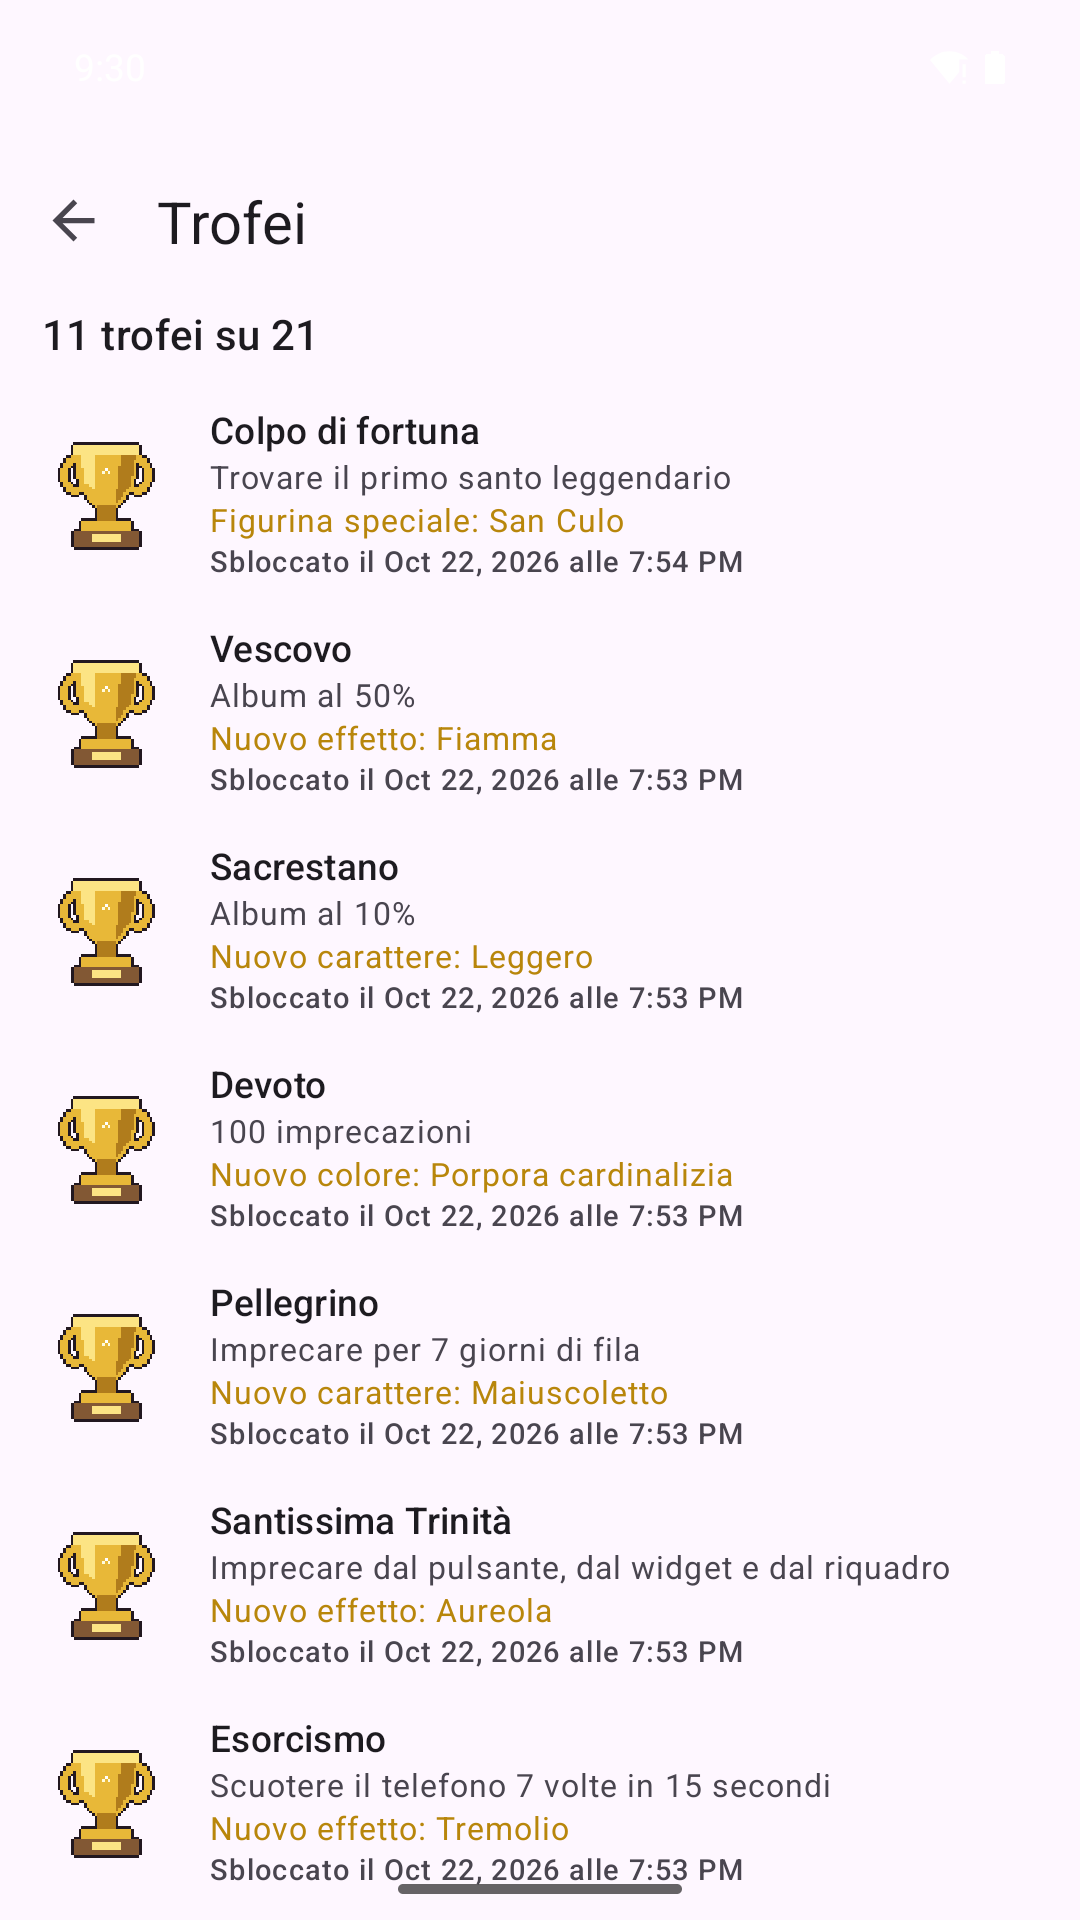
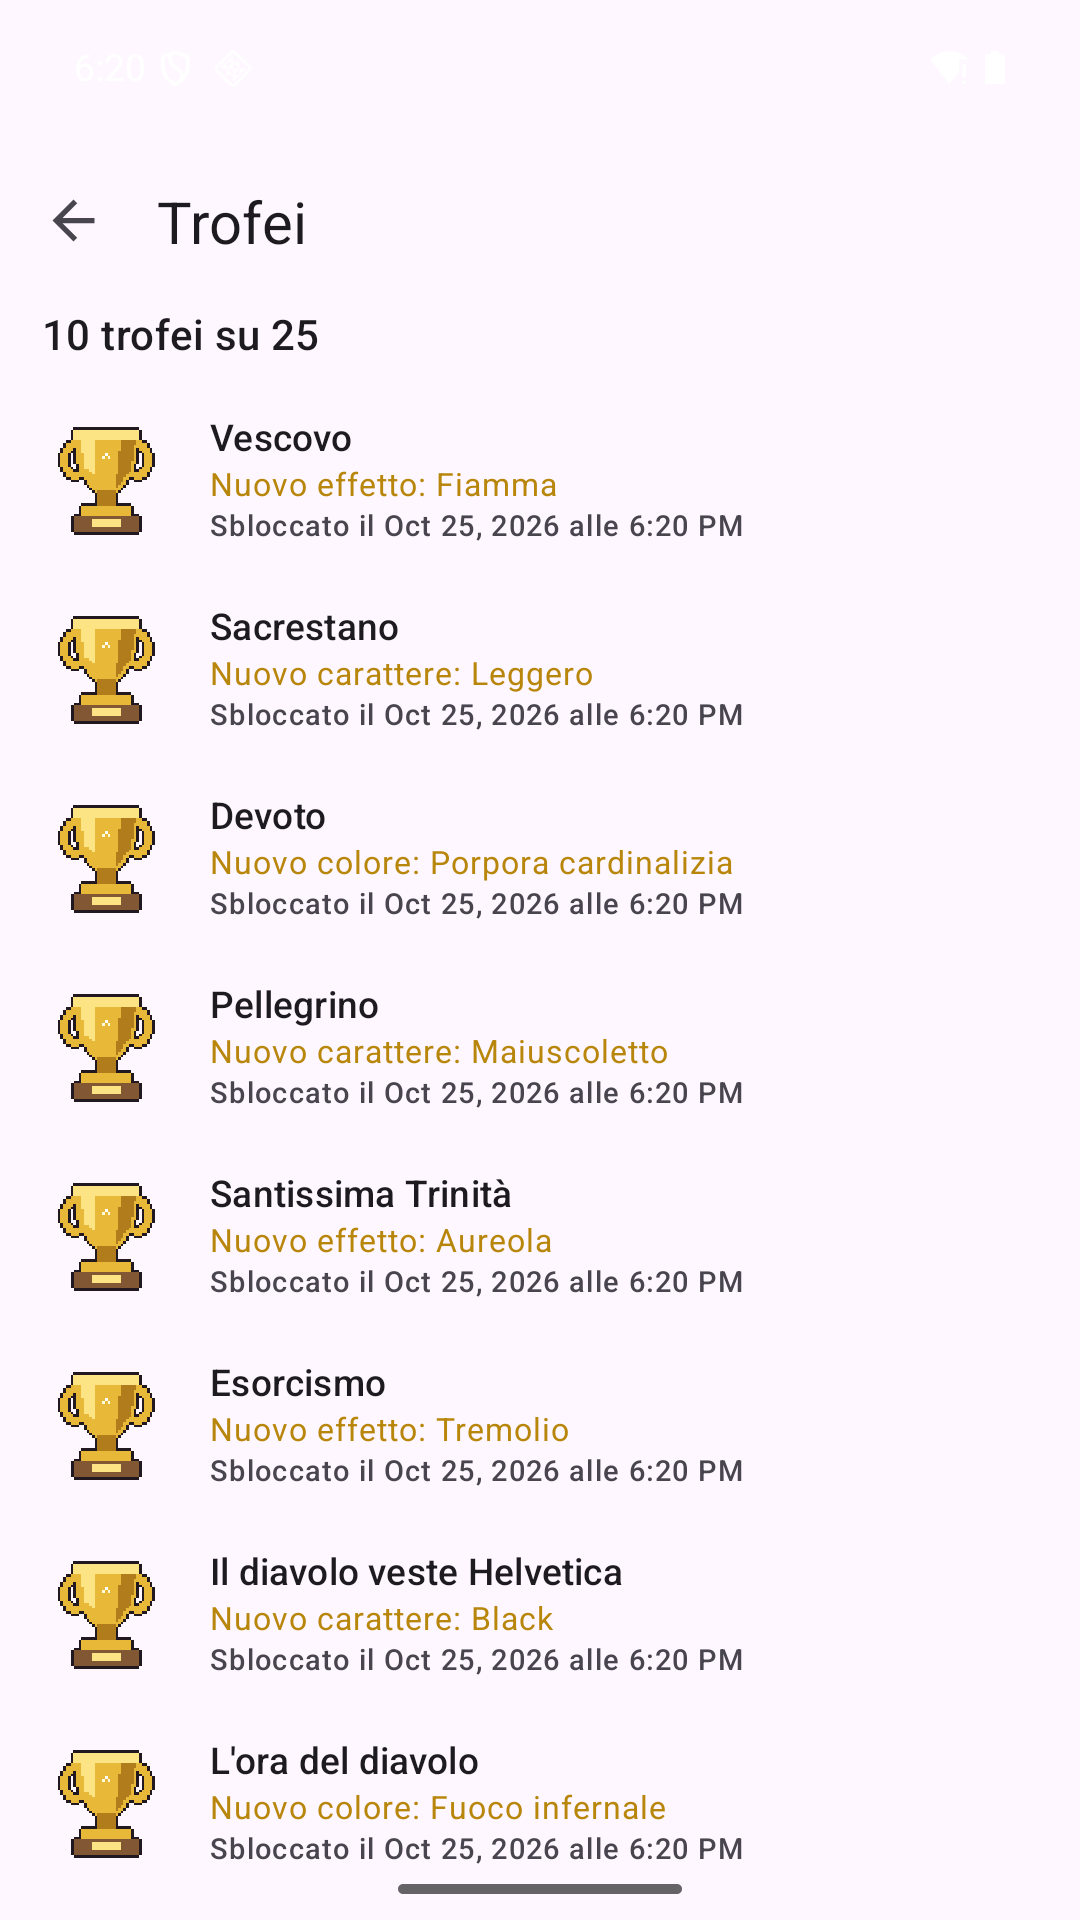
Trophies: conditions only in the detail; easier Esorcismo
- The trophy list shows name, reward and date; a tap on an unlocked trophy
  opens a dialog with its condition. The Play Store screenshot of the list no
  longer spoils how to win them (store/screenshot-6.png retaken).
- Esorcismo: 5 shakes in 15 s instead of 7. Shakes are counted at most one
  per cooldown and a short peak can be missed between sensor readings.
- Shake cooldown 1.5 s -> 1.0 s: a shake in the last moment of a phrase no
  longer swallows the next one. invokeSaint still blocks double invocations.

diff --git a/mannaggia-android/app/src/main/java/com/mannaggia/app/TrofeiActivity.kt b/mannaggia-android/app/src/main/java/com/mannaggia/app/TrofeiActivity.kt
@@ -9,6 +9,7 @@ import android.view.View
 import android.view.ViewGroup
 import android.widget.ImageView
 import android.widget.TextView
+import androidx.appcompat.app.AlertDialog
 import androidx.appcompat.app.AppCompatActivity
 import androidx.core.view.ViewCompat
 import androidx.core.view.WindowInsetsCompat
@@ -20,8 +21,9 @@ import kotlinx.coroutines.launch
 import java.util.Date
 
 /**
- * Trophies: unlocked ones show cup, name, condition, reward and date; locked
- * ones are a grey cup and "???", with no hint.
+ * Trophies: unlocked ones show cup, name, reward and date, and a tap opens the detail with
+ * the condition (not in the list, so a screenshot of it doesn't spoil how to win them);
+ * locked ones are a grey cup and "???", with no hint.
  */
 class TrofeiActivity : AppCompatActivity() {
 
@@ -82,7 +84,7 @@ class TrofeiActivity : AppCompatActivity() {
                 holder.cup.colorFilter = null
                 holder.cup.alpha = 1f
                 holder.name.text = t.nome
-                holder.condition.text = t.condizione
+                holder.condition.visibility = View.GONE
                 holder.reward.text = t.ricompensa.descrizione
                 holder.reward.visibility = View.VISIBLE
                 val d = Date(at)
@@ -92,14 +94,24 @@ class TrofeiActivity : AppCompatActivity() {
                     DateFormat.getTimeFormat(this@TrofeiActivity).format(d)
                 )
                 holder.date.visibility = View.VISIBLE
+                holder.itemView.setOnClickListener {
+                    AlertDialog.Builder(this@TrofeiActivity)
+                        .setTitle(t.nome)
+                        .setMessage(listOf(t.condizione, t.ricompensa.descrizione, holder.date.text).joinToString("\n\n"))
+                        .setPositiveButton(android.R.string.ok, null)
+                        .show()
+                }
             } else {
                 // Locked: grey cup, no name, no hint.
                 holder.cup.colorFilter = ColorMatrixColorFilter(ColorMatrix().apply { setSaturation(0f) })
                 holder.cup.alpha = 0.45f
                 holder.name.text = getString(R.string.trophy_locked)
                 holder.condition.text = getString(R.string.trophy_locked_hint)
+                holder.condition.visibility = View.VISIBLE
                 holder.reward.visibility = View.GONE
                 holder.date.visibility = View.GONE
+                holder.itemView.setOnClickListener(null)
+                holder.itemView.isClickable = false
             }
         }
     }

diff --git a/mannaggia-android/app/src/main/java/com/mannaggia/app/Trofei.kt b/mannaggia-android/app/src/main/java/com/mannaggia/app/Trofei.kt
@@ -49,7 +49,7 @@ object Trofei {
             colore("inferno", "Fuoco infernale")),
         Trofeo("helvetica", "Il diavolo veste Helvetica", "Cambiare carattere 666 volte",
             carattere("sans-serif-black", "Black")),
-        Trofeo("esorcismo", "Esorcismo", "Scuotere il telefono 7 volte in 15 secondi",
+        Trofeo("esorcismo", "Esorcismo", "Scuotere il telefono 5 volte in 15 secondi",
             effetto("tremolio", "Tremolio")),
         Trofeo("trinita", "Santissima Trinità", "Imprecare dal pulsante, dal widget e dal riquadro",
             effetto("aureola", "Aureola")),
@@ -93,7 +93,7 @@ object Trofei {
     /** "S3" number of a special card (1-based), or null. */
     fun specialNumber(saint: String): Int? = SPECIALI.indexOf(saint).takeIf { it >= 0 }?.plus(1)
 
-    private const val ESORCISMO_SHAKES = 7
+    private const val ESORCISMO_SHAKES = 5      // 7 was hard: shakes come at most 1 s apart and peaks can be missed
     private const val ESORCISMO_WINDOW_MS = 15_000L
     private const val PELLEGRINO_DAYS = 7
     private const val PAZIENZA_OPENS = 50

diff --git a/mannaggia-android/app/src/main/java/com/mannaggia/app/ShakeDetector.kt b/mannaggia-android/app/src/main/java/com/mannaggia/app/ShakeDetector.kt
@@ -31,6 +31,7 @@ class ShakeDetector(private val onShake: () -> Unit) : SensorEventListener {
 
     companion object {
         private const val SHAKE_THRESHOLD_G = 2.7f
-        private const val COOLDOWN_MS = 1_500L
+        /** 1.5 s lost the next shake after a phrase; invokeSaint blocks double invocations anyway. */
+        private const val COOLDOWN_MS = 1_000L
     }
 }
